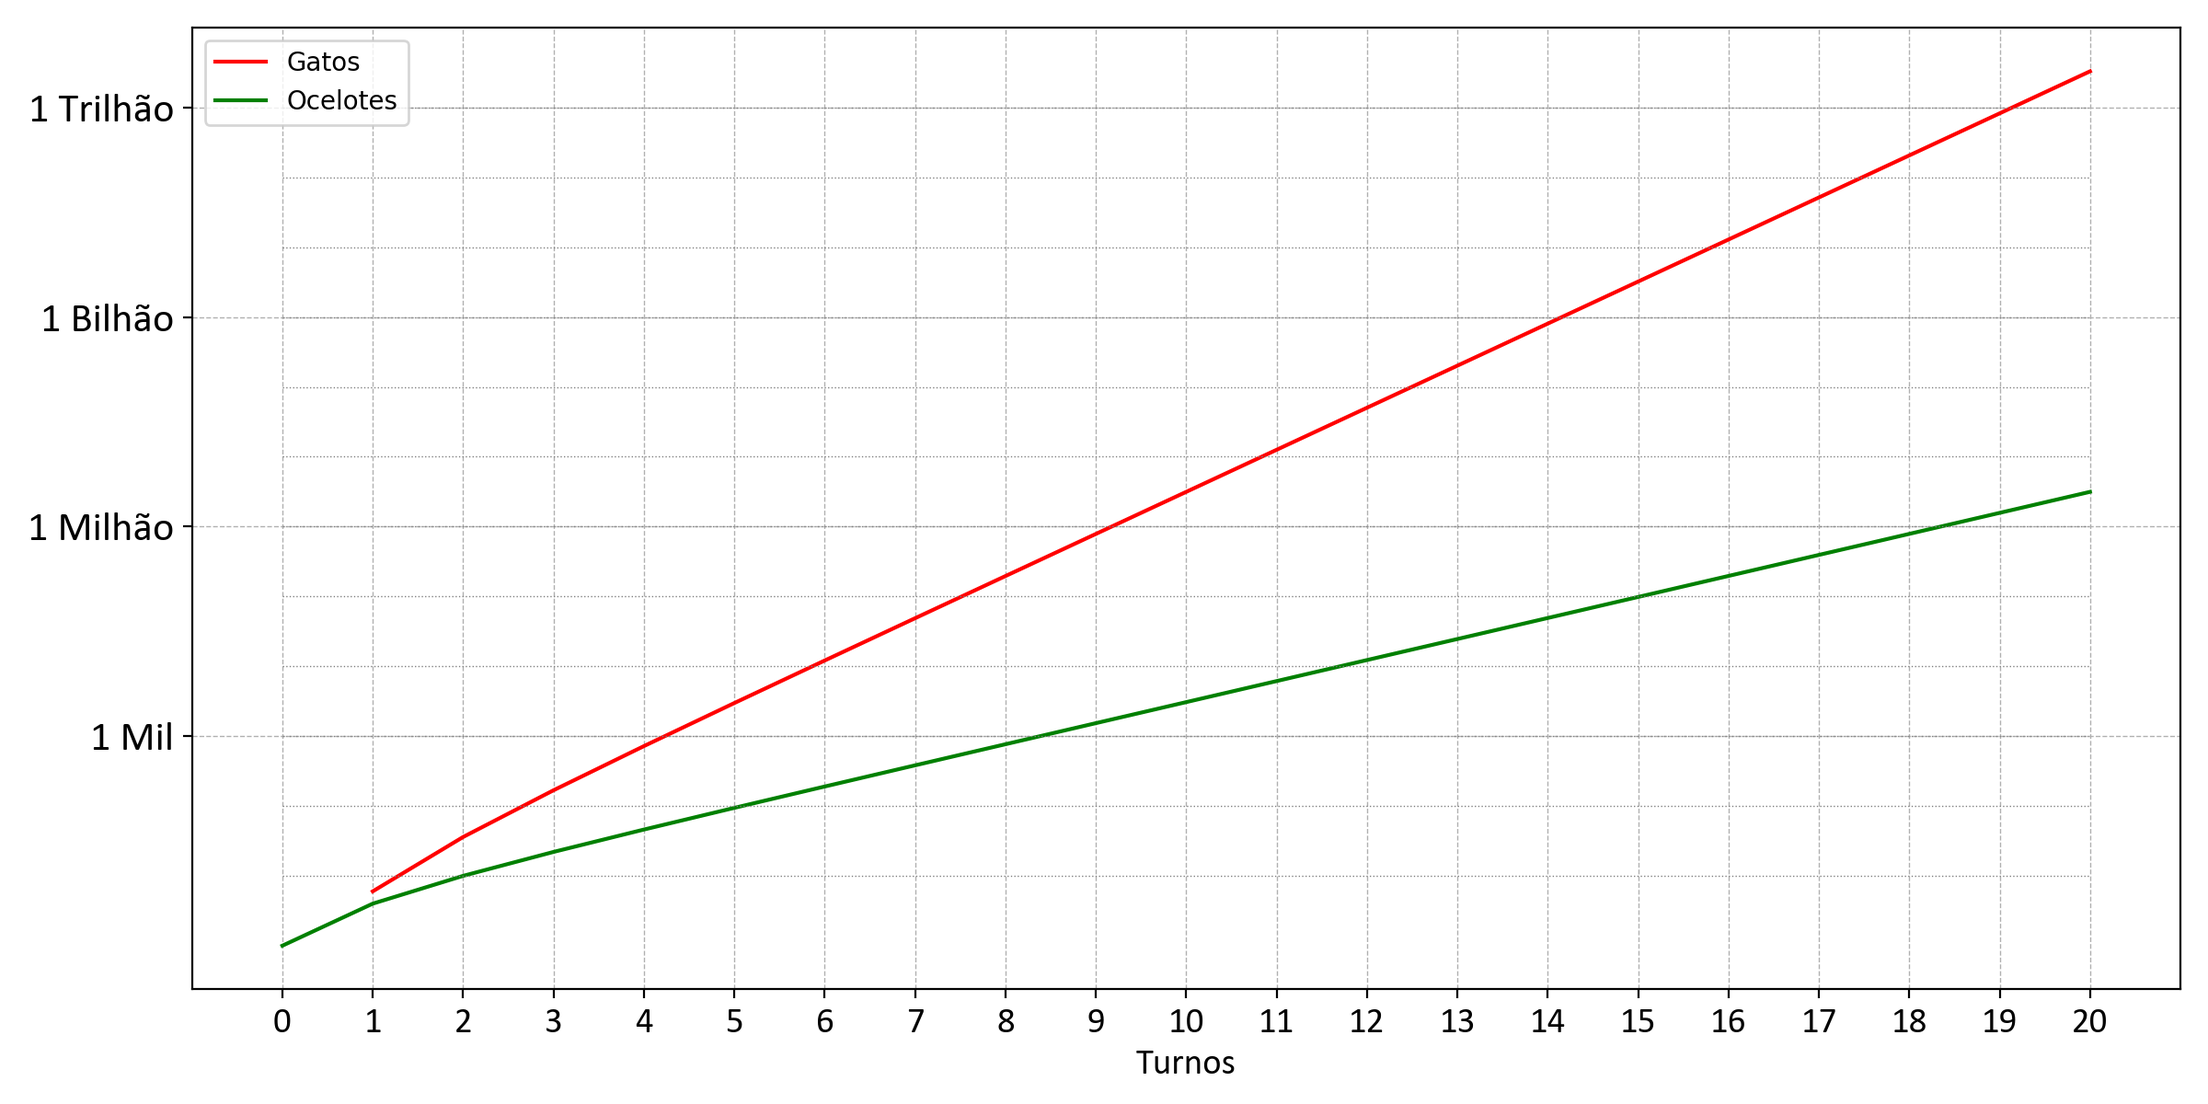
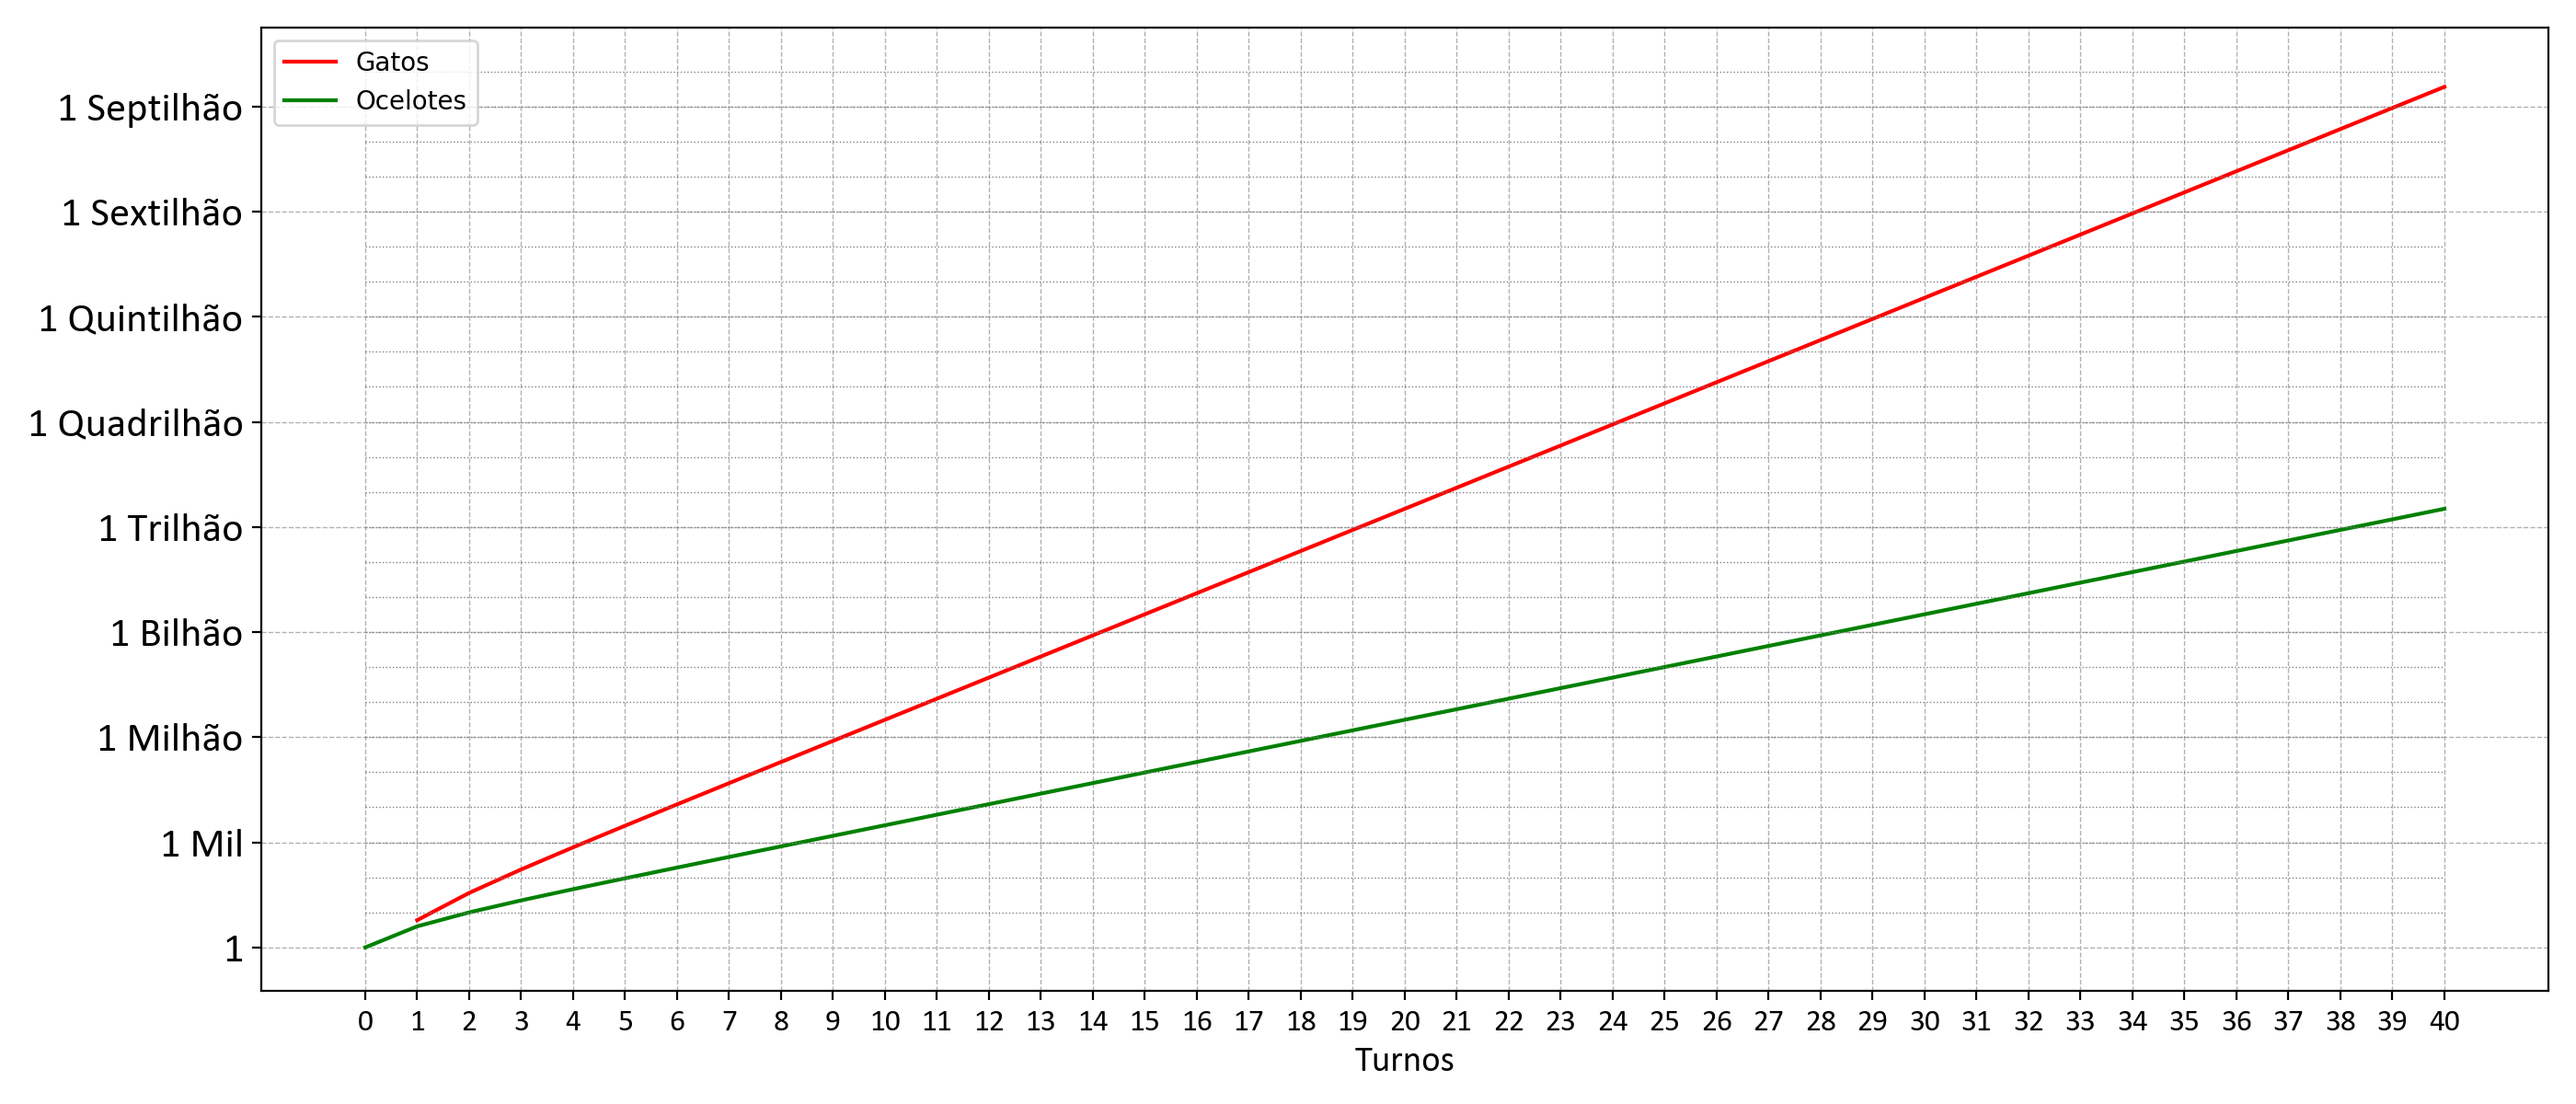
finish stuff

diff --git a/ocelote helm/main.py b/ocelote helm/main.py
@@ -29,29 +29,50 @@ def thousand_separator(x, pos):
     return f'{int(x):,}'.replace(',', '.')
 
 
-formatter = FuncFormatter(thousand_separator)
+# formatter = FuncFormatter(thousand_separator)
 
 
-def plot_graphs(data, name, color):
-    plt.figure(figsize=(6, 6))
-    plt.plot(data, color=color)
-    plt.title(name, fontname='Calibri', fontsize=16)
+def plot_graphs(datasets, labels, colors):
+    plt.figure(figsize=(14, 6))
+
+    for data, label, color in zip(datasets, labels, colors):
+        plt.plot(range(len(data)), data, label=label, color=color)
+
     plt.xlabel('Turnos', fontname='Calibri', fontsize=14)
     plt.grid(True, which='both', linestyle='--', linewidth=0.5)
-    plt.xticks(range(len(data)), fontname='Calibri', fontsize=14)
-    plt.yticks(fontname='Calibri', fontsize=16)
-    plt.gca().yaxis.set_major_formatter(formatter)
-    # plt.yscale('log')
+    plt.xticks(range(len(datasets[0])), fontname='Calibri', fontsize=12)
+
+    y_ticks = [float(10**i) for i in range(0, 25, 3)]
+    y_labels = ['1', '1 Mil', '1 Milhão', '1 Bilhão',
+                '1 Trilhão', '1 Quadrilhão', '1 Quintilhão', '1 Sextilhão', '1 Septilhão']
+    plt.gca().set_yscale('log')
+    plt.gca().set_yticks(y_ticks)
+    plt.gca().get_yaxis().set_major_formatter(
+        FuncFormatter(lambda x, _: f'{int(x):,}'.replace(',', '.')))
+    plt.gca().set_yticklabels(y_labels, fontname='Calibri', fontsize=16)
+
+    plt.legend(loc='upper left')
+
+    powers_of_ten = [10**i for i in range(1, 26)]
+    for y in powers_of_ten:
+        plt.hlines(y, xmin=0, xmax=len(data)-1, colors='gray',
+                   linestyles='dotted', linewidth=0.5)
+
     plt.tight_layout()
-    plt.savefig(f'ocelote helm/{name}_over_turns.png',
+    plt.savefig('ocelote helm/Combined_over_turns.png',
                 dpi=200, transparent=True)
     plt.close()
 
+
 if __name__ == "__main__":
-    ocelots_list, cats_list = simulate_turns(10)
+    ocelots_list, cats_list = simulate_turns(40)
 
     for i in range(len(ocelots_list)):
-        print(f'Turno {i}: Ocelotes: {ocelots_list[i]}, Gatos: {cats_list[i]}')
+        if i in [20,21,29,30,31,39,40]:
+            # print as 000,000,000
+            print(f'{cats_list[i]:,}'.replace(',', '.'))
 
-    plot_graphs(ocelots_list, 'Ocelotes', 'green')
-    plot_graphs(cats_list, 'Gatos', 'red')
+    cats_list[0] = None
+
+    plot_graphs([cats_list, ocelots_list], [
+                'Gatos', 'Ocelotes'], ['red', 'green'])

diff --git a/ocelote helm/accelerated.py b/ocelote helm/accelerated.py
@@ -1,0 +1,68 @@
+from matplotlib.ticker import FuncFormatter
+import matplotlib.pyplot as plt
+
+
+def simulate_turns(turns, multiplier):
+    ocelots = 1
+    cats = 0
+
+    historic = [ocelots + cats]
+
+    for _ in range(turns):
+        ocelots += 1 * multiplier
+        cats += (ocelots * multiplier) + (ocelots * multiplier) ** 2
+        ocelots *= 2 * multiplier
+
+        historic.append(ocelots + cats)
+
+    return historic
+
+
+def thousand_separator(x, pos):
+    return f'{int(x):,}'.replace(',', '.')
+
+
+# formatter = FuncFormatter(thousand_separator)
+
+
+def plot_graphs(datasets, labels, colors):
+    plt.figure(figsize=(14, 6))
+
+    for data, label, color in zip(datasets, labels, colors):
+        plt.plot(range(len(data)), data, label=label, color=color)
+
+    plt.xlabel('Turnos', fontname='Calibri', fontsize=14)
+    plt.grid(True, which='both', linestyle='--', linewidth=0.5)
+    plt.xticks(range(len(datasets[0])), fontname='Calibri', fontsize=12)
+
+    y_ticks = [float(10**i) for i in range(0, 91, 6)]
+    y_labels = [f"10^{i}" for i in range(0, 91, 6)]
+    plt.gca().set_yscale('log')
+    plt.gca().set_yticks(y_ticks)
+    plt.gca().get_yaxis().set_major_formatter(
+        FuncFormatter(lambda x, _: f'{int(x):,}'.replace(',', '.')))
+    plt.gca().set_yticklabels(y_labels, fontname='Calibri', fontsize=16)
+
+    plt.legend(loc='upper left')
+
+    plt.tight_layout()
+    plt.savefig('ocelote helm/Multipliers_over_turns.png',
+                dpi=200)
+    plt.close()
+
+
+if __name__ == "__main__":
+    normal = simulate_turns(40, 1)
+    dobro = simulate_turns(40, 2)
+    triplo = simulate_turns(40, 3)
+    seistuplo = simulate_turns(40, 6)
+
+    print(seistuplo[-1])
+    print(seistuplo[-2])
+
+    plot_graphs([normal, dobro, triplo, seistuplo],
+                ['Sem multiplicadores',
+                 'Anointed Procession',
+                'Ojer Taq, Deepest Foundation',
+                 'Ambos'],
+                ['red', 'blue', 'green', 'purple'])
